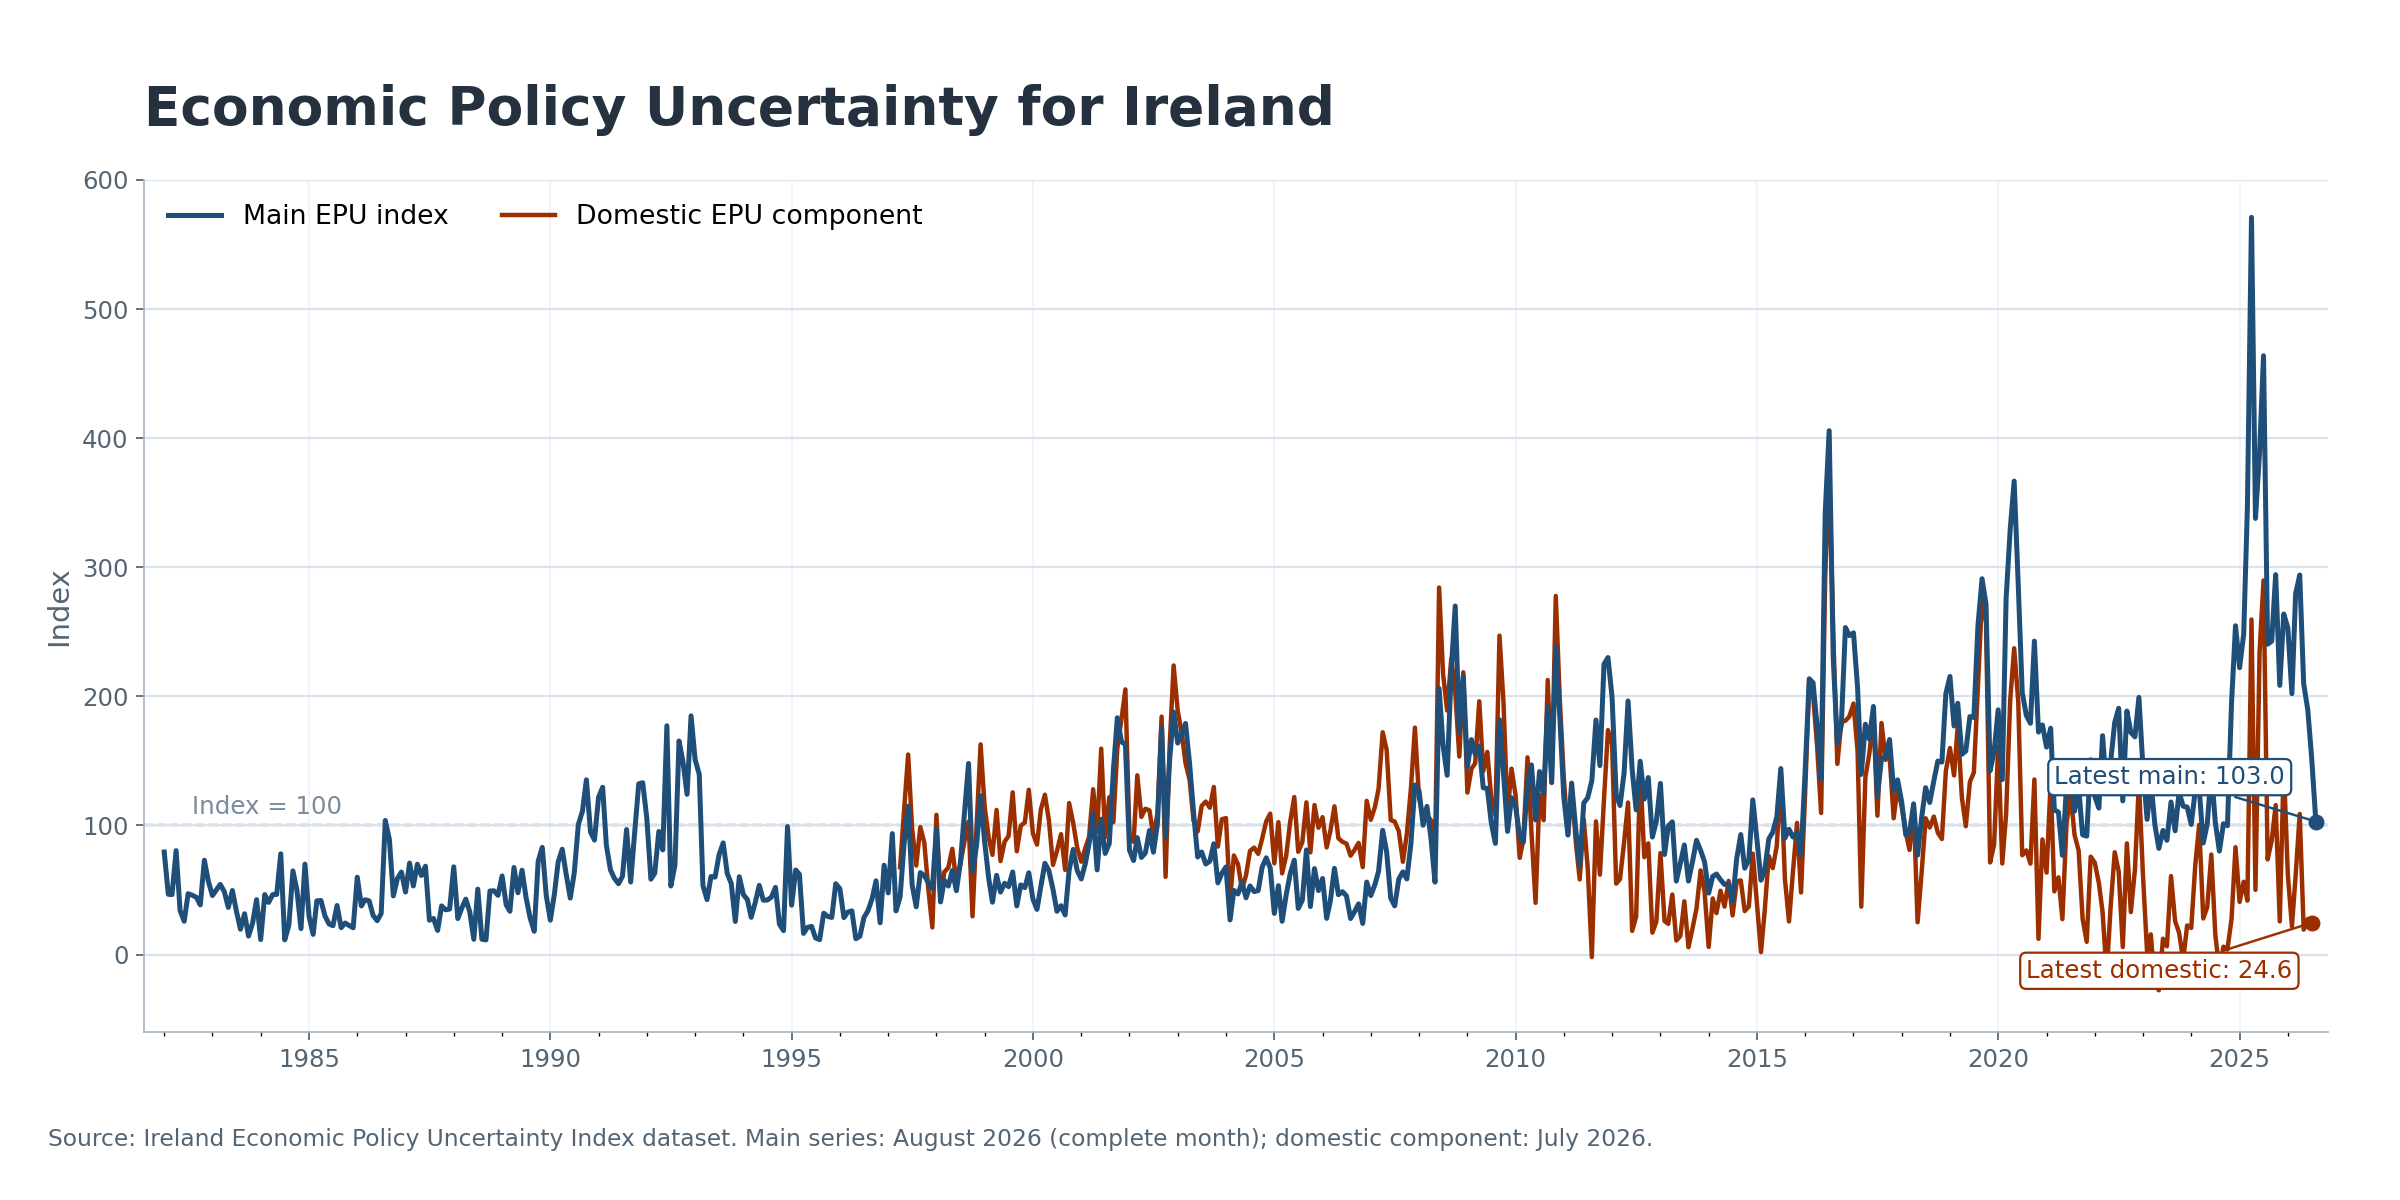
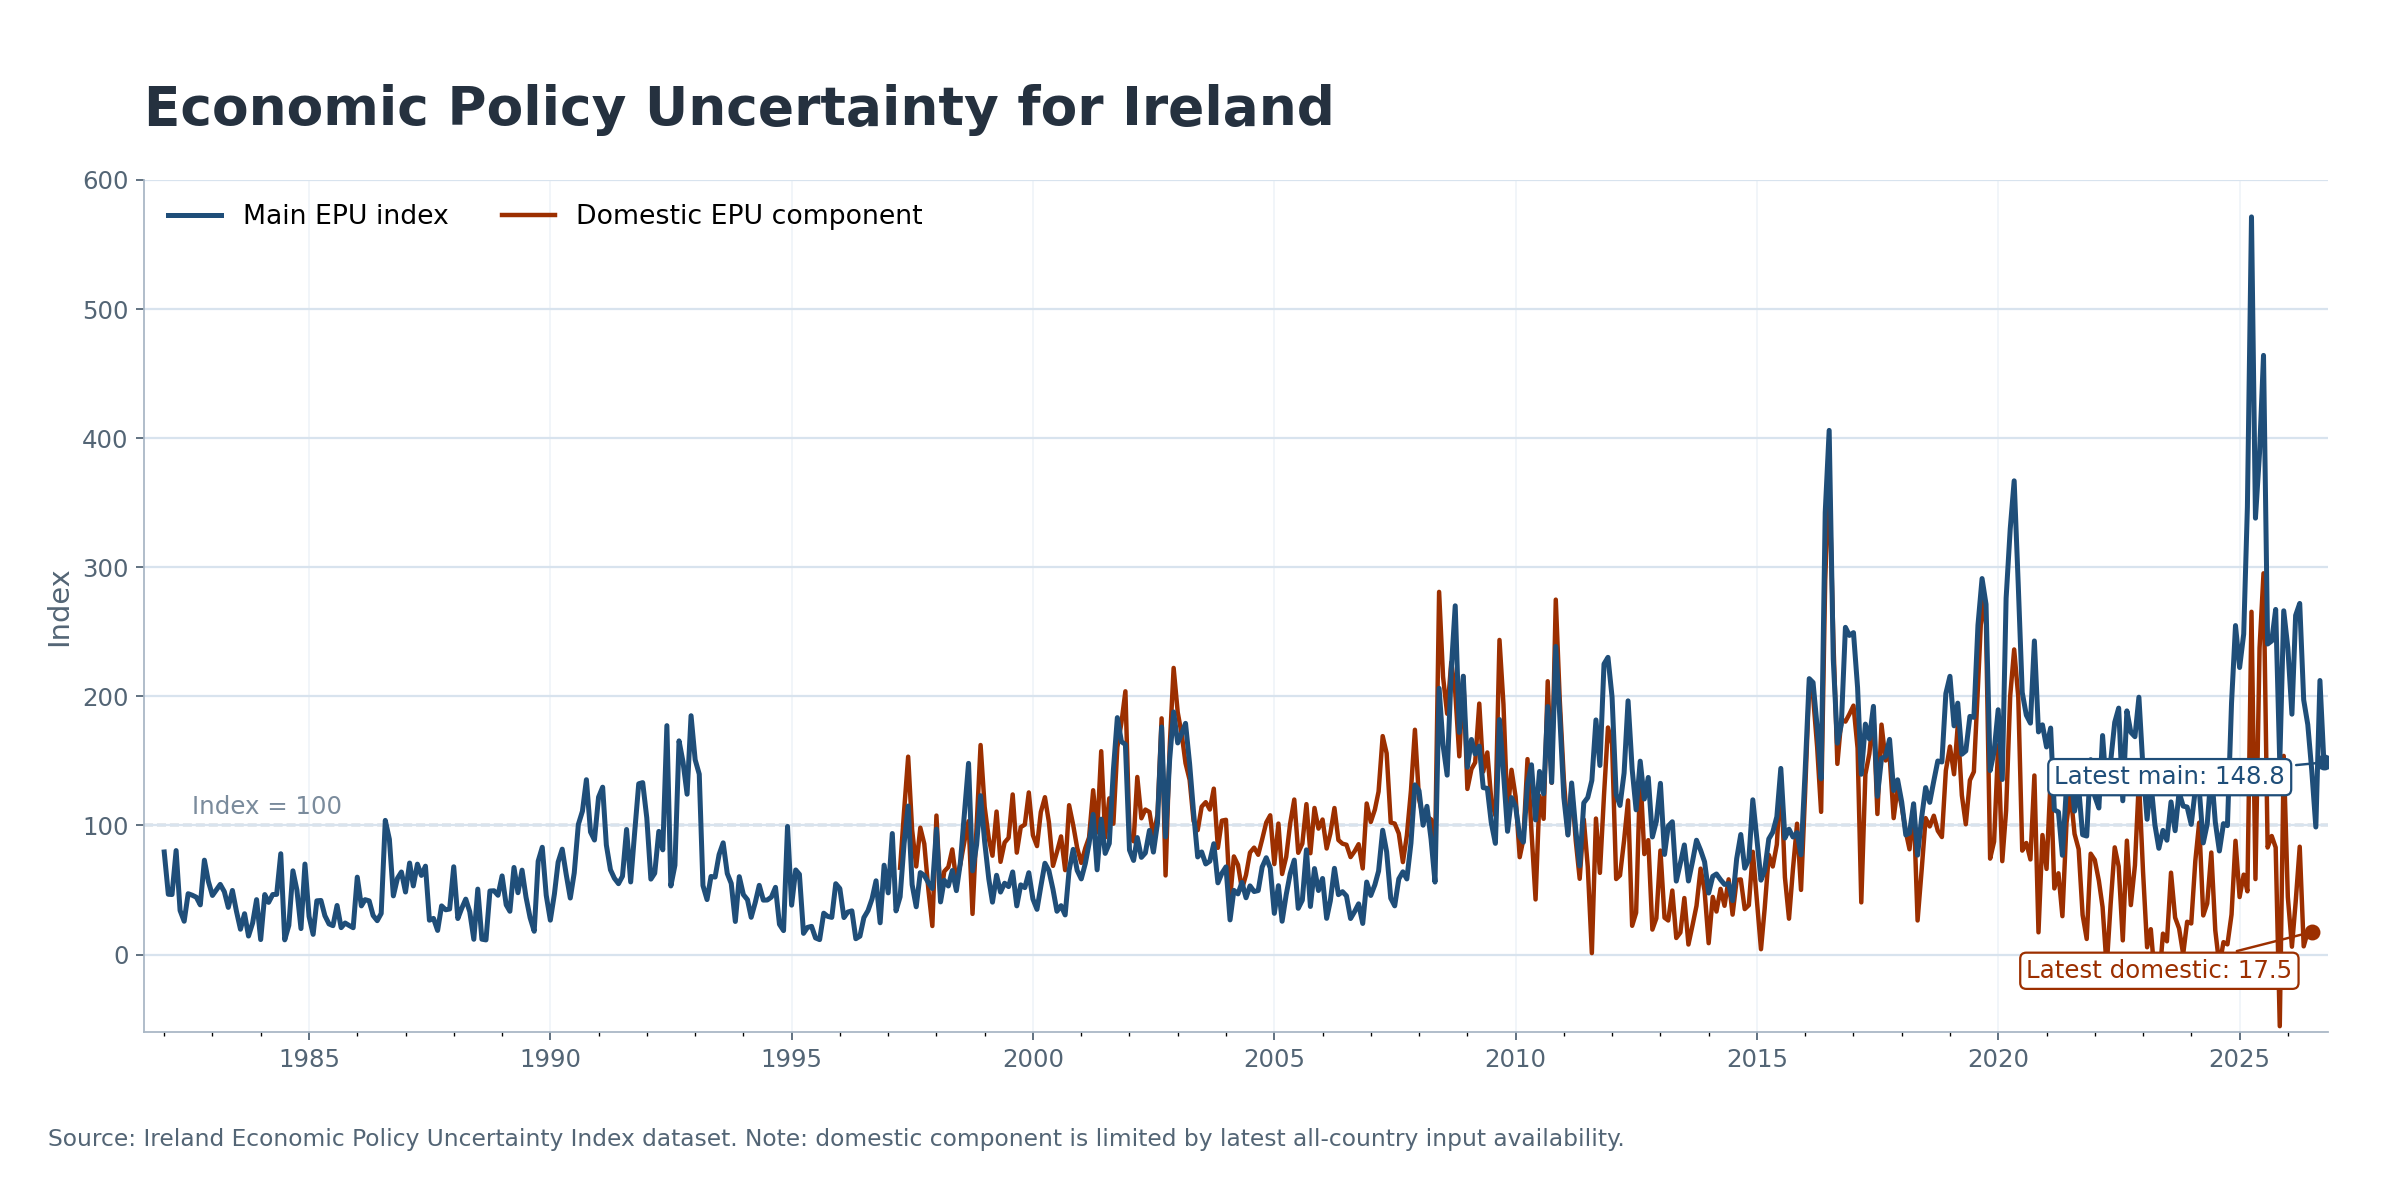
Update Ireland EPU data through September 2026
Main EPU updated through September 2026 plus a partial October (to 16 Oct).
Since October 2025 the main series is extended with Irish Times articles
rescaled to the three-newspaper basis by k = 0.669, the average monthly ratio
of the ProQuest three-paper share to the Irish Times share over Jan 2024 to
Sep 2025; October 2025 onwards revised. Domestic component through July 2026.

diff --git a/docs/data.html b/docs/data.html
@@ -165,7 +165,7 @@ ul.task-list li input[type="checkbox"] {
 <h2 class="anchored" data-anchor-id="irish-economic-policy-uncertainty-data">Irish Economic Policy Uncertainty data</h2>
 <p>This page provides the data that underpin my work on Irish economic policy uncertainty, including the paper <em>Economic Policy Uncertainty Shocks in Small Open Economies: A Case Study of Ireland</em>.</p>
 <p>The series are hosted externally by the Economic Policy Uncertainty project and are mirrored here for convenience.</p>
-<p><strong>Latest mirrored update:</strong> 5 September 2026. The main EPU series is updated through August 2026 using complete-month data through 31 August; the domestic component is updated through July 2026, reflecting the latest available all-country input panel used for the domestic-series estimation.</p>
+<p><strong>Latest mirrored update:</strong> 16 October 2026. The main EPU series is updated through September 2026 (complete month), with a partial observation for October 2026 based on articles published up to 16 October; the domestic component is updated through July 2026, reflecting the latest available all-country input panel used for the domestic-series estimation. Since October 2025, when full three-newspaper archive coverage ended, the main series is extended with <em>The Irish Times</em> articles rescaled to the three-newspaper basis by a factor of 0.669, calibrated on January 2024 to September 2025; values from October 2025 onwards were revised in this update.</p>
 <section id="download" class="level3">
 <h3 class="anchored" data-anchor-id="download">Download</h3>
 <p><a href="files/ireland-epu-index.xlsx">Download the Ireland Economic Policy Uncertainty dataset (Excel)</a></p>
